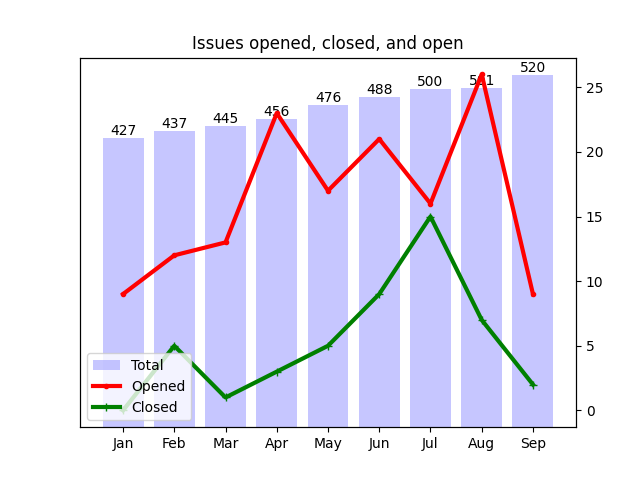
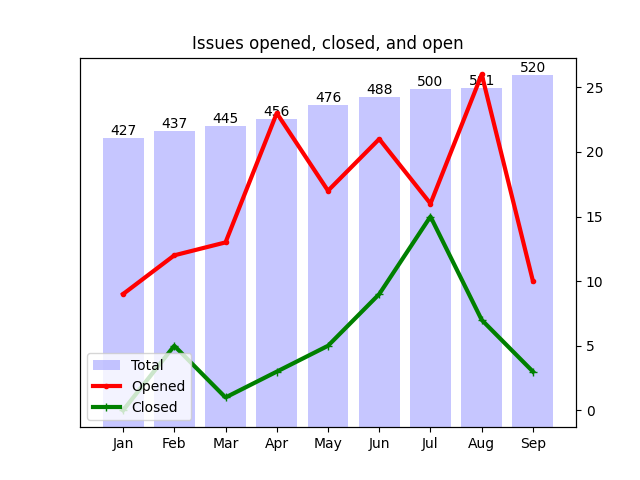
Apply automatic changes

Changed region(s): [[0.7812, 0.3125, 0.8438, 0.625], [0.75, 0.6562, 0.8438, 0.8125], [0.75, 0.1875, 0.7812, 0.3125]]

diff --git a/docs/analytics.html b/docs/analytics.html
@@ -109,8 +109,8 @@ td .material-icons { display:inline-flex; vertical-align: top; font-size:1.1rem;
 						</tr>
 						<tr>
 							<td>Sep</td>
-							<td>9</td>
-							<td>2</td>
+							<td>10</td>
+							<td>3</td>
 						</tr>
 					</table>
 				</div>
@@ -140,15 +140,15 @@ td .material-icons { display:inline-flex; vertical-align: top; font-size:1.1rem;
 						</tr>
 						<tr>
 							<td>
-								<a href="http://github.com/notofonts/arabic/issues">arabic</a>
+								<a href="http://github.com/notofonts/nastaliq/issues">nastaliq</a>
 							</td>
 							<td>25</td>
 						</tr>
 						<tr>
 							<td>
-								<a href="http://github.com/notofonts/nastaliq/issues">nastaliq</a>
+								<a href="http://github.com/notofonts/arabic/issues">arabic</a>
 							</td>
-							<td>25</td>
+							<td>24</td>
 						</tr>
 						<tr>
 							<td>
@@ -231,13 +231,13 @@ td .material-icons { display:inline-flex; vertical-align: top; font-size:1.1rem;
 				<tr>
 					<td>6</td>
 					<td>
-						<a href="http://github.com/notofonts/ahom/issues">ahom</a>,  						<a href="http://github.com/notofonts/bengali/issues">bengali</a>,  						<a href="http://github.com/notofonts/gujarati/issues">gujarati</a>,  						<a href="http://github.com/notofonts/gurmukhi/issues">gurmukhi</a>,  						<a href="http://github.com/notofonts/kawi/issues">kawi</a>,  						<a href="http://github.com/notofonts/kannada/issues">kannada</a>,  						<a href="http://github.com/notofonts/malayalam/issues">malayalam</a> 
+						<a href="http://github.com/notofonts/ahom/issues">ahom</a>,  						<a href="http://github.com/notofonts/bengali/issues">bengali</a>,  						<a href="http://github.com/notofonts/gujarati/issues">gujarati</a>,  						<a href="http://github.com/notofonts/kawi/issues">kawi</a>,  						<a href="http://github.com/notofonts/kannada/issues">kannada</a>,  						<a href="http://github.com/notofonts/malayalam/issues">malayalam</a> 
 					</td>
 				</tr>
 				<tr>
 					<td>7</td>
 					<td>
-						<a href="http://github.com/notofonts/canadian-aboriginal/issues">canadian-aboriginal</a>,  						<a href="http://github.com/notofonts/modi/issues">modi</a>,  						<a href="http://github.com/notofonts/old-hungarian/issues">old-hungarian</a> 
+						<a href="http://github.com/notofonts/canadian-aboriginal/issues">canadian-aboriginal</a>,  						<a href="http://github.com/notofonts/gurmukhi/issues">gurmukhi</a>,  						<a href="http://github.com/notofonts/modi/issues">modi</a>,  						<a href="http://github.com/notofonts/old-hungarian/issues">old-hungarian</a> 
 					</td>
 				</tr>
 				<tr>
@@ -272,19 +272,19 @@ td .material-icons { display:inline-flex; vertical-align: top; font-size:1.1rem;
 							<td>
 									<a href="http://github.com/notofonts/latin-greek-cyrillic/issues">latin-greek-cyrillic</a>: 142, 
 
-									<a href="http://github.com/notofonts/arabic/issues">arabic</a>: 25, 
-
 									<a href="http://github.com/notofonts/nastaliq/issues">nastaliq</a>: 25, 
+
+									<a href="http://github.com/notofonts/arabic/issues">arabic</a>: 24, 
 
 									<a href="http://github.com/notofonts/hebrew/issues">hebrew</a>: 15, 
 
 									<a href="http://github.com/notofonts/devanagari/issues">devanagari</a>: 9, 
 
+									<a href="http://github.com/notofonts/gurmukhi/issues">gurmukhi</a>: 7, 
+
 									<a href="http://github.com/notofonts/bengali/issues">bengali</a>: 6, 
 
 									<a href="http://github.com/notofonts/gujarati/issues">gujarati</a>: 6, 
-
-									<a href="http://github.com/notofonts/gurmukhi/issues">gurmukhi</a>: 6, 
 
 									<a href="http://github.com/notofonts/kannada/issues">kannada</a>: 6, 
 
